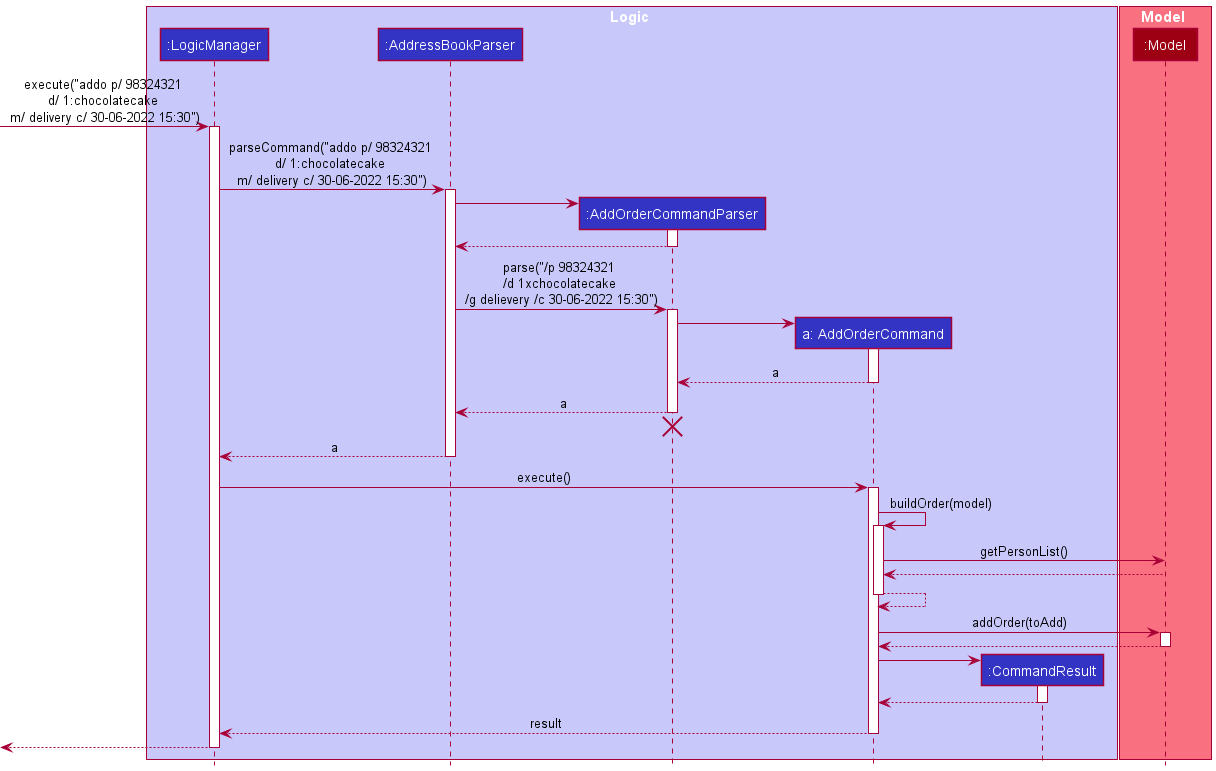
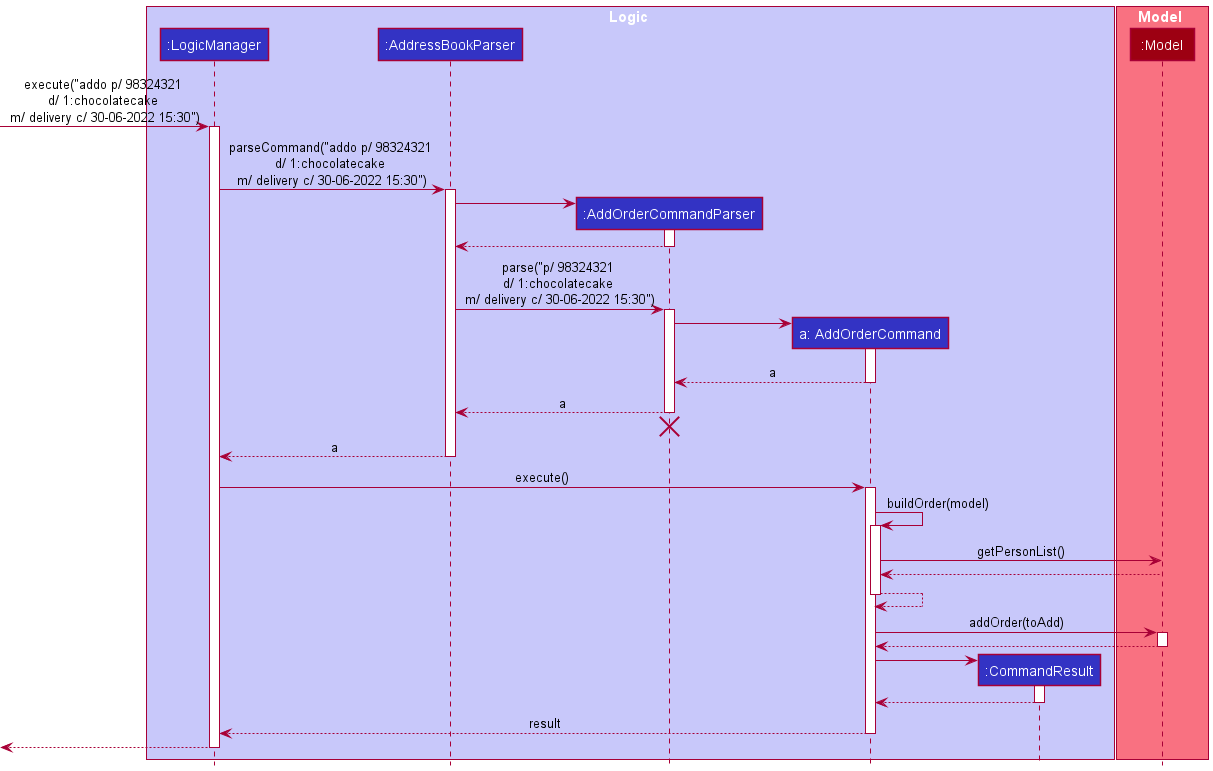
Documentation updates

diff --git a/docs/UserGuide.md b/docs/UserGuide.md
@@ -237,7 +237,7 @@ Examples:
 
 Edits an existing customer in ReadyBakey's contact list.
 
-Format: `edito INDEX [c/DELIVERYDATETIME] [m/COLLECTION\_TYPE] [r/REMARKS] [d/DETAILS]…`
+Format: `edito INDEX [c/DELIVERYDATETIME] [m/COLLECTION_TYPE] [r/REMARKS] [d/DETAILS]…`
 
 * Edits the order at the specified `INDEX`. The index refers to the index number shown in the displayed order list.
   * The index **must be a positive integer** 1, 2, 3, …
@@ -436,19 +436,19 @@ _Details coming soon ..._
 
 ## Command summary <a name="command-summary"></a>
 
-| Action      | Format                                                                            | Example                                                                                                          |
-|-------------|-----------------------------------------------------------------------------------|------------------------------------------------------------------------------------------------------------------|
-| **addp**    | `addp n/NAME p/PHONE e/EMAIL a/ADDRESS [r/REMARK] [t/TAG]…`                       | `addp n/John Doe p/98765432 e/johnd@example.com a/311, Clementi Ave 2, #02-25 r/Allergic to Peanuts t/owesMoney` |
-| **deletep** | `deletep INDEX`                                                                   | `deletep 2`                                                                                                      |
-| **listp**   | `listp`                                                                           | `listp`                                                                                                          |
-| **editp**   | `editp INDEX n/NAME p/PHONE\_NUM a/ADDRESS`                                       | `editp 1 p/12345678 n/John Doey a/NUS`                                                                           |
-| **findp**   | `findp [ATTRIBUTE_PREFIX] KEYWORD [MORE_KEYWORDS]...`                             | `findp n/Gerald`                                                                                                 |
-| **addo**    | `addo p/PHONE\_NUM r/REMARK d/DETAILS c/DELIVERYDATETIME m/COLLECTION\_TYPE`      | `addo p/87654321 r/no candles d/1:Chocolate Cake c/27-12-2022 12:30 m/Delivery`                                  |
-| **deleteo** | `deleteo INDEX`                                                                   | `deleteo 2`                                                                                                      |
-| **listo**   | `listo`                                                                           | `listo`                                                                                                          |
-| **marko**   | `marko INDEX`                                                                     | `marko 1`                                                                                                        |
-| **unmarko** | `unmarko INDEX`                                                                   | `unmarko 1`                                                                                                      |
-| **edito**   | `edito INDEX [c/DELIVERYDATETIME] [m/COLLECTION\_TYPE] [r/REMARKS] [d/DETAILS]…` | `edito 1 r/Add Cheese d/1: Jerry Favourite Cheese Cake d/2: Chocolate Cake c/25-12-2022 15:30 m/Delivery`        |
-| **findo**   | `findo [ATTRIBUTE_PREFIX] KEYWORD [MORE_KEYWORDS]...`                             | `findo n/Gerald Declan`                                                                                          |
-| **clear**   | `clear`                                                                           | `clear`                                                                                                          |
-| **exit**    | `exit`                                                                            | `exit`                                                                                                           |
+| Action      | Format                                                                           | Example                                                                                                          |
+|-------------|----------------------------------------------------------------------------------|------------------------------------------------------------------------------------------------------------------|
+| **addp**    | `addp n/NAME p/PHONE e/EMAIL a/ADDRESS [r/REMARK] [t/TAG]…`                      | `addp n/John Doe p/98765432 e/johnd@example.com a/311, Clementi Ave 2, #02-25 r/Allergic to Peanuts t/owesMoney` |
+| **deletep** | `deletep INDEX`                                                                  | `deletep 2`                                                                                                      |
+| **listp**   | `listp`                                                                          | `listp`                                                                                                          |
+| **editp**   | `editp INDEX n/NAME p/PHONE_NUM a/ADDRESS`                                       | `editp 1 p/12345678 n/John Doey a/NUS`                                                                           |
+| **findp**   | `findp [ATTRIBUTE_PREFIX] KEYWORD [MORE_KEYWORDS]...`                            | `findp n/Gerald`                                                                                                 |
+| **addo**    | `addo p/PHONE_NUM r/REMARK d/DETAILS c/DELIVERYDATETIME m/COLLECTION_TYPE`       | `addo p/87654321 r/no candles d/1:Chocolate Cake c/27-12-2022 12:30 m/Delivery`                                  |
+| **deleteo** | `deleteo INDEX`                                                                  | `deleteo 2`                                                                                                      |
+| **listo**   | `listo`                                                                          | `listo`                                                                                                          |
+| **marko**   | `marko INDEX`                                                                    | `marko 1`                                                                                                        |
+| **unmarko** | `unmarko INDEX`                                                                  | `unmarko 1`                                                                                                      |
+| **edito**   | `edito INDEX [c/DELIVERYDATETIME] [m/COLLECTION_TYPE] [r/REMARKS] [d/DETAILS]…` | `edito 1 r/Add Cheese d/1: Jerry Favourite Cheese Cake d/2: Chocolate Cake c/25-12-2022 15:30 m/Delivery`        |
+| **findo**   | `findo [ATTRIBUTE_PREFIX] KEYWORD [MORE_KEYWORDS]...`                            | `findo n/Gerald Declan`                                                                                          |
+| **clear**   | `clear`                                                                          | `clear`                                                                                                          |
+| **exit**    | `exit`                                                                           | `exit`                                                                                                           |

diff --git a/docs/DeveloperGuide.md b/docs/DeveloperGuide.md
@@ -174,7 +174,7 @@ The AddOrder feature takes in 4 required parameter and 1 optional parameter.
 |--------|------------------------|-----------------------|---------------------------------------------------------------|------------|
 | /p     | Phone Number           | /p 90124322           | Must be a number longer than 3 digits                         | Yes        |
 | /c     | Delivery Date and Time | /c 30-06-2022 15:30   | Must follow the format dd-MM-yyyy HH:mm                       | Yes        |
-| /m     | Collection Type        | /g delivery           | Must be either `delivery` or `pickup` with any capitalisation | Yes        |
+| /m     | Collection Type        | /m delivery           | Must be either `delivery` or `pickup` with any capitalisation | Yes        |
 | /d     | Details of Order       | /d 1:Chocolate Cake   | Can take in any detail of the order                           | Yes        |
 | /r     | Remark                 | /r Put more Chocolate | Can take in any remark of the order                           | No         |
 
@@ -202,6 +202,7 @@ The following sequence diagram illustrates how the `AddOrderCommand` works:
 1) Phone Number stores any number longer than 3 digits long and less than 15 digits long
    * This format was chosen to be more flexible to accept different length of numbers
    * Phone number needs to already exist in a `Person` so that there is a linkage made
+     * Phone number was chosen to create a link as we expect our users to copy over the data from another source. E.g. Received orders on Whatsapp -> Input into ReadyBakey. This would make it easier for our users to add data in as compared to having to find the index of the user in the app.
 2) Delivery Date and Time takes in user input in the format dd-MM-yyyy HH:mm, as well as natural date formats E.g. `Mon 12:59`
    * This user input format was chosen to be user-friendly
    * This Date and Time is represented to the user in the format such as "Thursday, 30 Jun 2022, 03:30PM"
@@ -306,7 +307,7 @@ The following sequence diagram shows how the `findo` operation works:
 
 ![FindOrderSequenceDiagram](images/FindOrderSequenceDiagram.png)
 
-### \[In Progress\] Edit Order Feature
+### Edit Order Feature
 
 This feature allows users to edit the details, collection/ delivery time, whether an order is for delivery or pickup,
 and remarks of the order that already exists in ReadyBakey. Currently, it can only edit the details of the order.
@@ -323,7 +324,7 @@ These are the inputs that the edit order command will accept:
 | Prefix | Meaning                              | Example            | Format                                                                   | Compulsory |
 |--------|--------------------------------------|--------------------|--------------------------------------------------------------------------|------------|
 | c/     | Collection/ delivery time            | c/30-06-2022 15:30 | Must follow the format dd-MM-yyyy HH:mm                                  | No         |
-| g/     | Collection type (Pickup or Delivery) | g/delivery         | Must be either `delivery` or `pickup` with any capitalisation            | No         |
+| m/     | Collection type (Pickup or Delivery) | m/delivery         | Must be either `delivery` or `pickup` with any capitalisation            | No         |
 | d/     | Order Details                        | d/1x Cheesecake    | \[To be implemented\] Must be in the form [NUM_ORDERS\] x \[ANY_STRING\] | No         |
 | r/     | Order Remarks                        | r/Give me candles  | Can take in any remark for the order                                     | No         |
 
